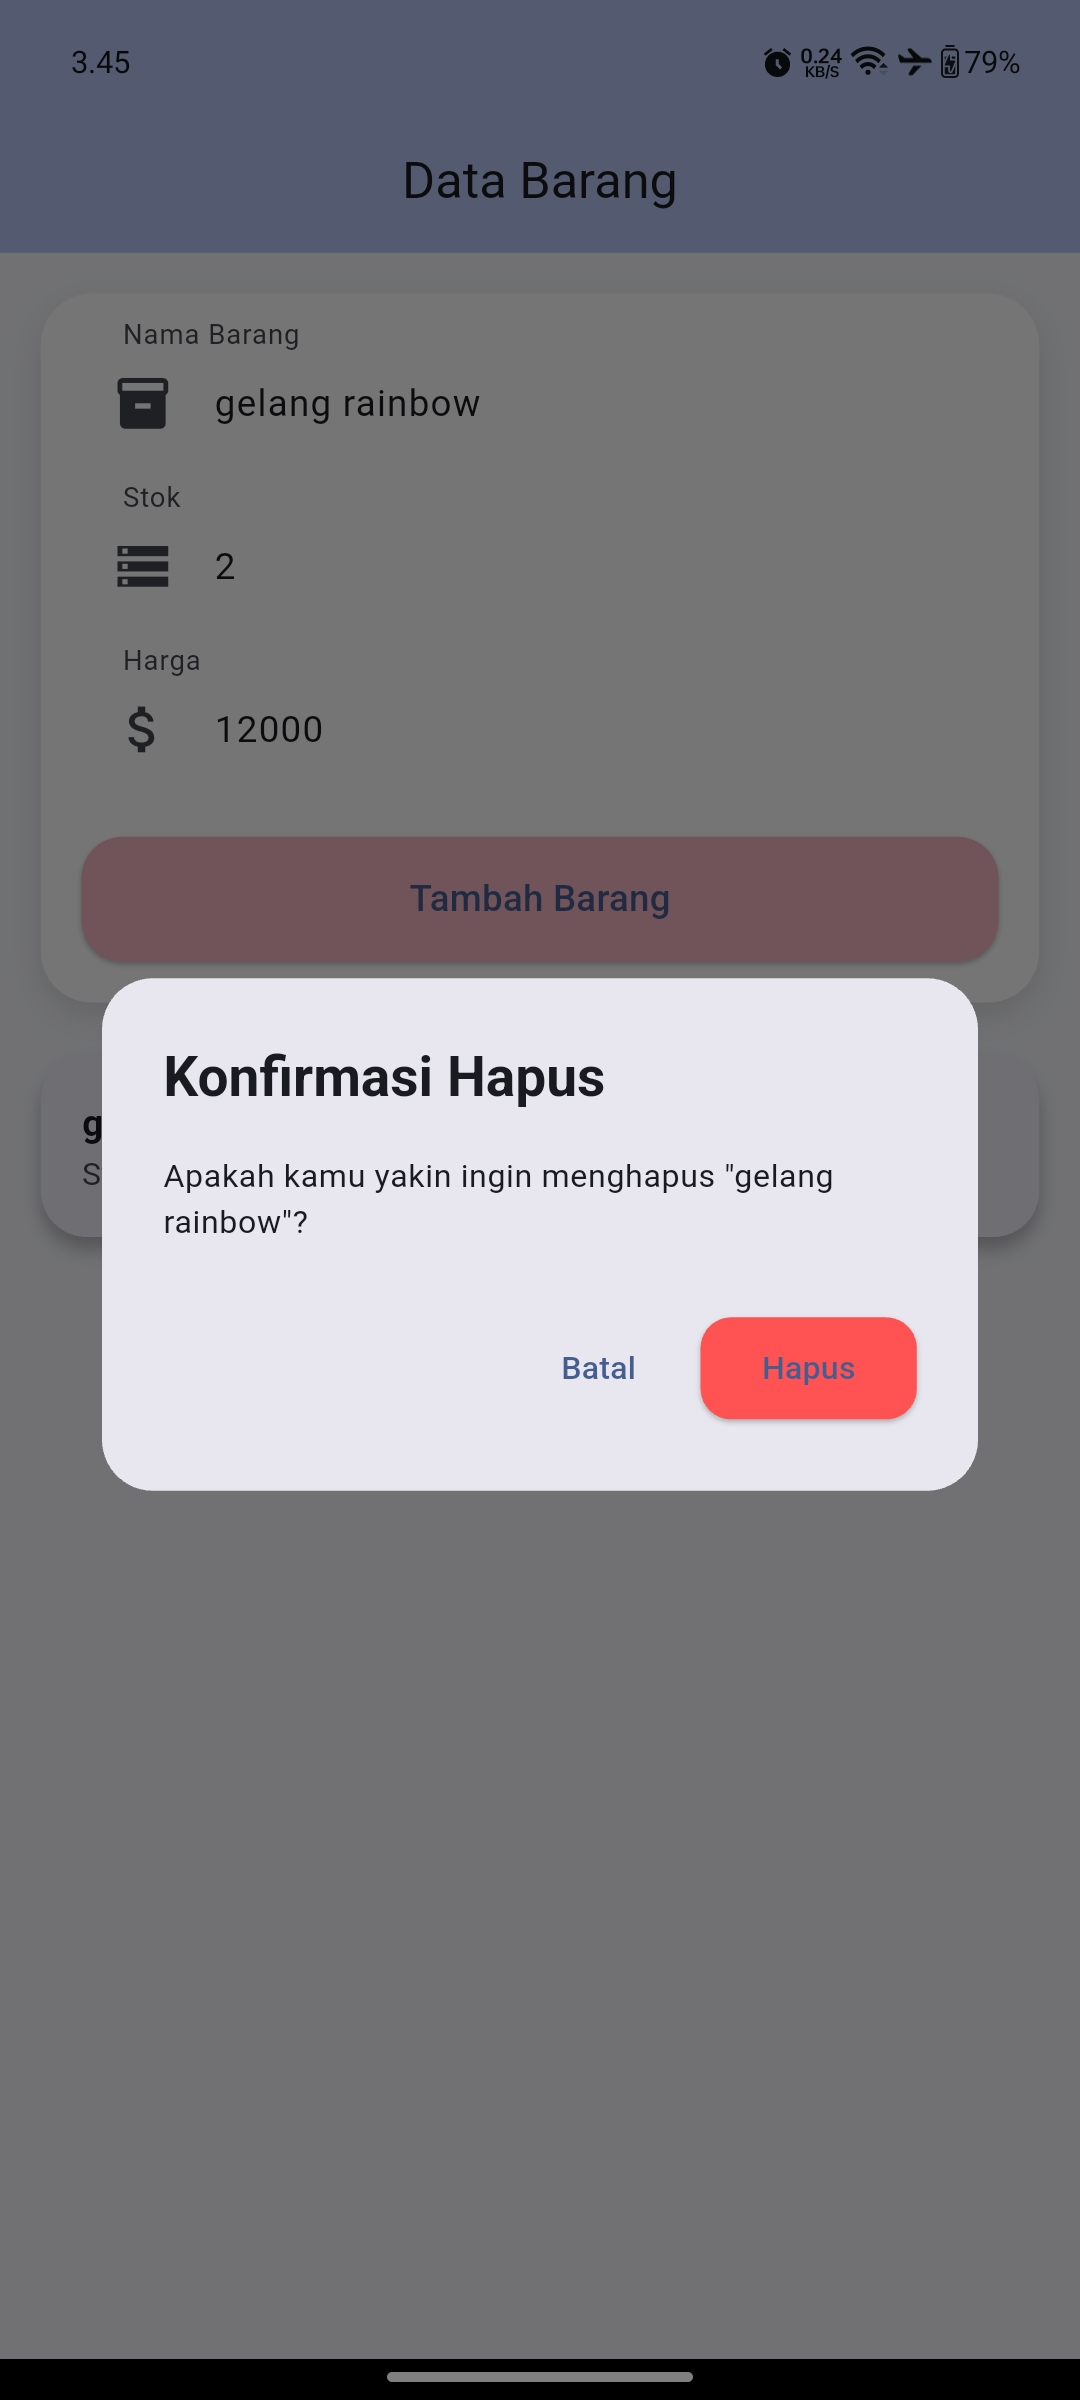
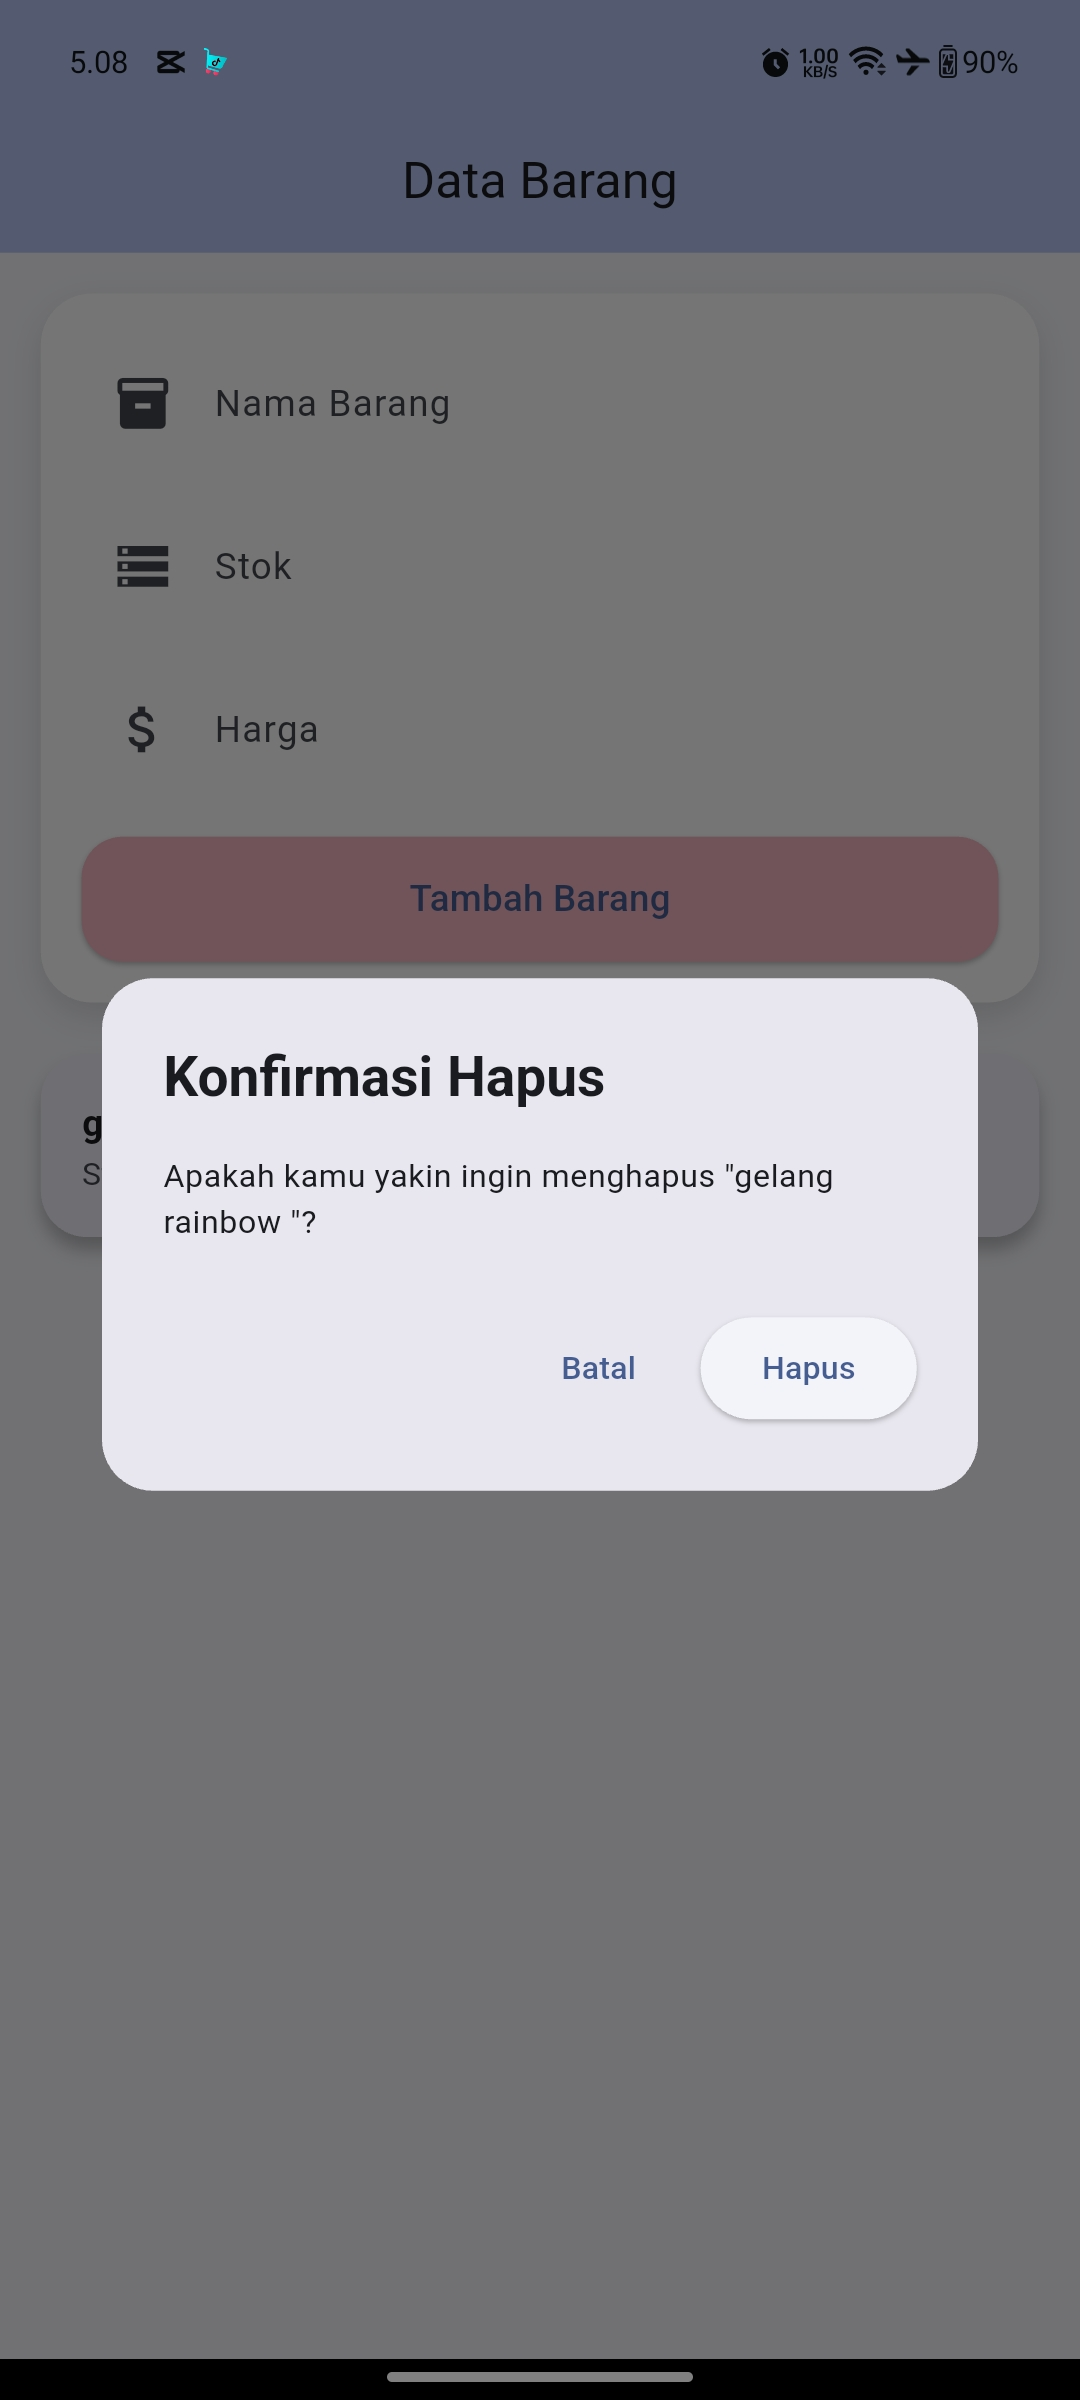
Update

diff --git a/lib/pages/home_page.dart b/lib/pages/home_page.dart
@@ -90,9 +90,14 @@ class _HomePageState extends State<HomePage> {
                   harga: int.parse(hargaCtrl.text),
                 ),
               );
+
+              namaCtrl.clear();
+              stokCtrl.clear();
+              hargaCtrl.clear();
+
               Navigator.pop(context);
             },
-            child: const Text("Update"),
+            child: const Text("Ubah"),
           ),
         ],
       ),
@@ -111,21 +116,13 @@ class _HomePageState extends State<HomePage> {
         content: Text('Apakah kamu yakin ingin menghapus "${barang.nama}"?'),
         actions: [
           TextButton(
-            onPressed: () {
-              Navigator.pop(context); // tutup dialog
-            },
+            onPressed: () => Navigator.pop(context),
             child: const Text('Batal'),
           ),
           ElevatedButton(
-            style: ElevatedButton.styleFrom(
-              backgroundColor: const Color.fromARGB(255, 255, 255, 255),
-              shape: RoundedRectangleBorder(
-                borderRadius: BorderRadius.circular(12),
-              ),
-            ),
             onPressed: () {
               firestoreService.hapusBarang(barang.id);
-              Navigator.pop(context); // tutup dialog
+              Navigator.pop(context);
             },
             child: const Text('Hapus'),
           ),
